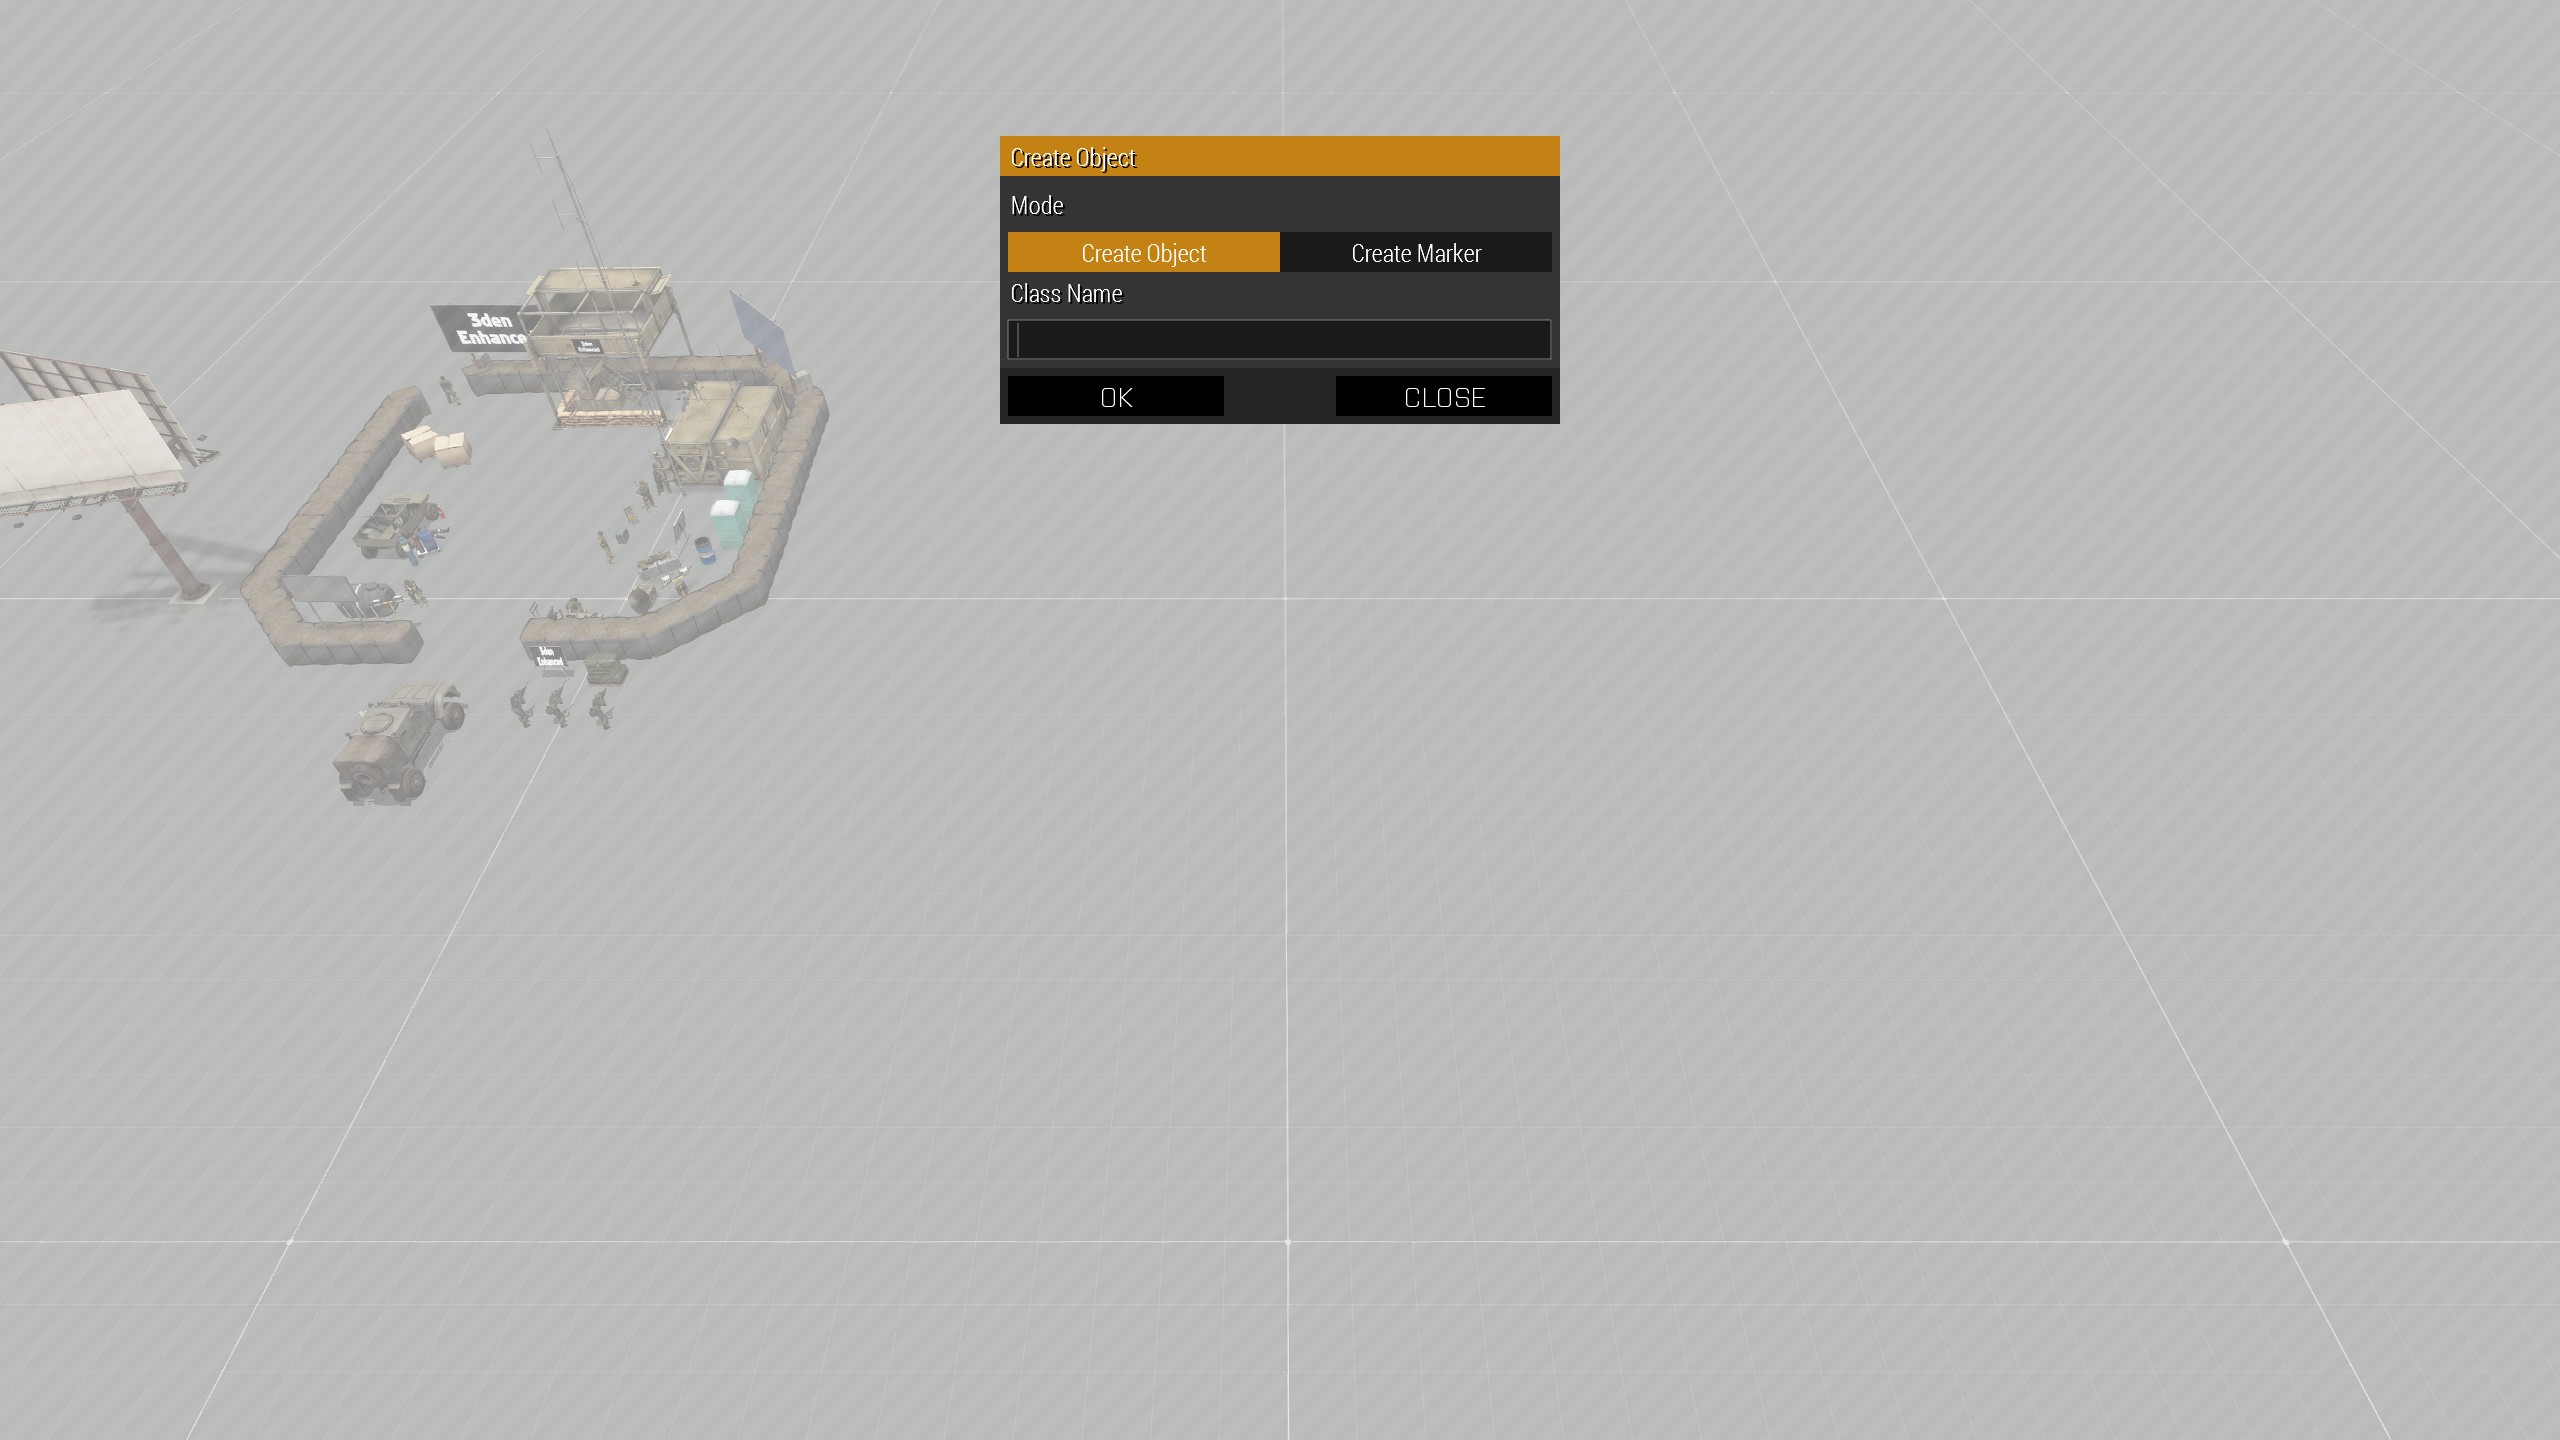
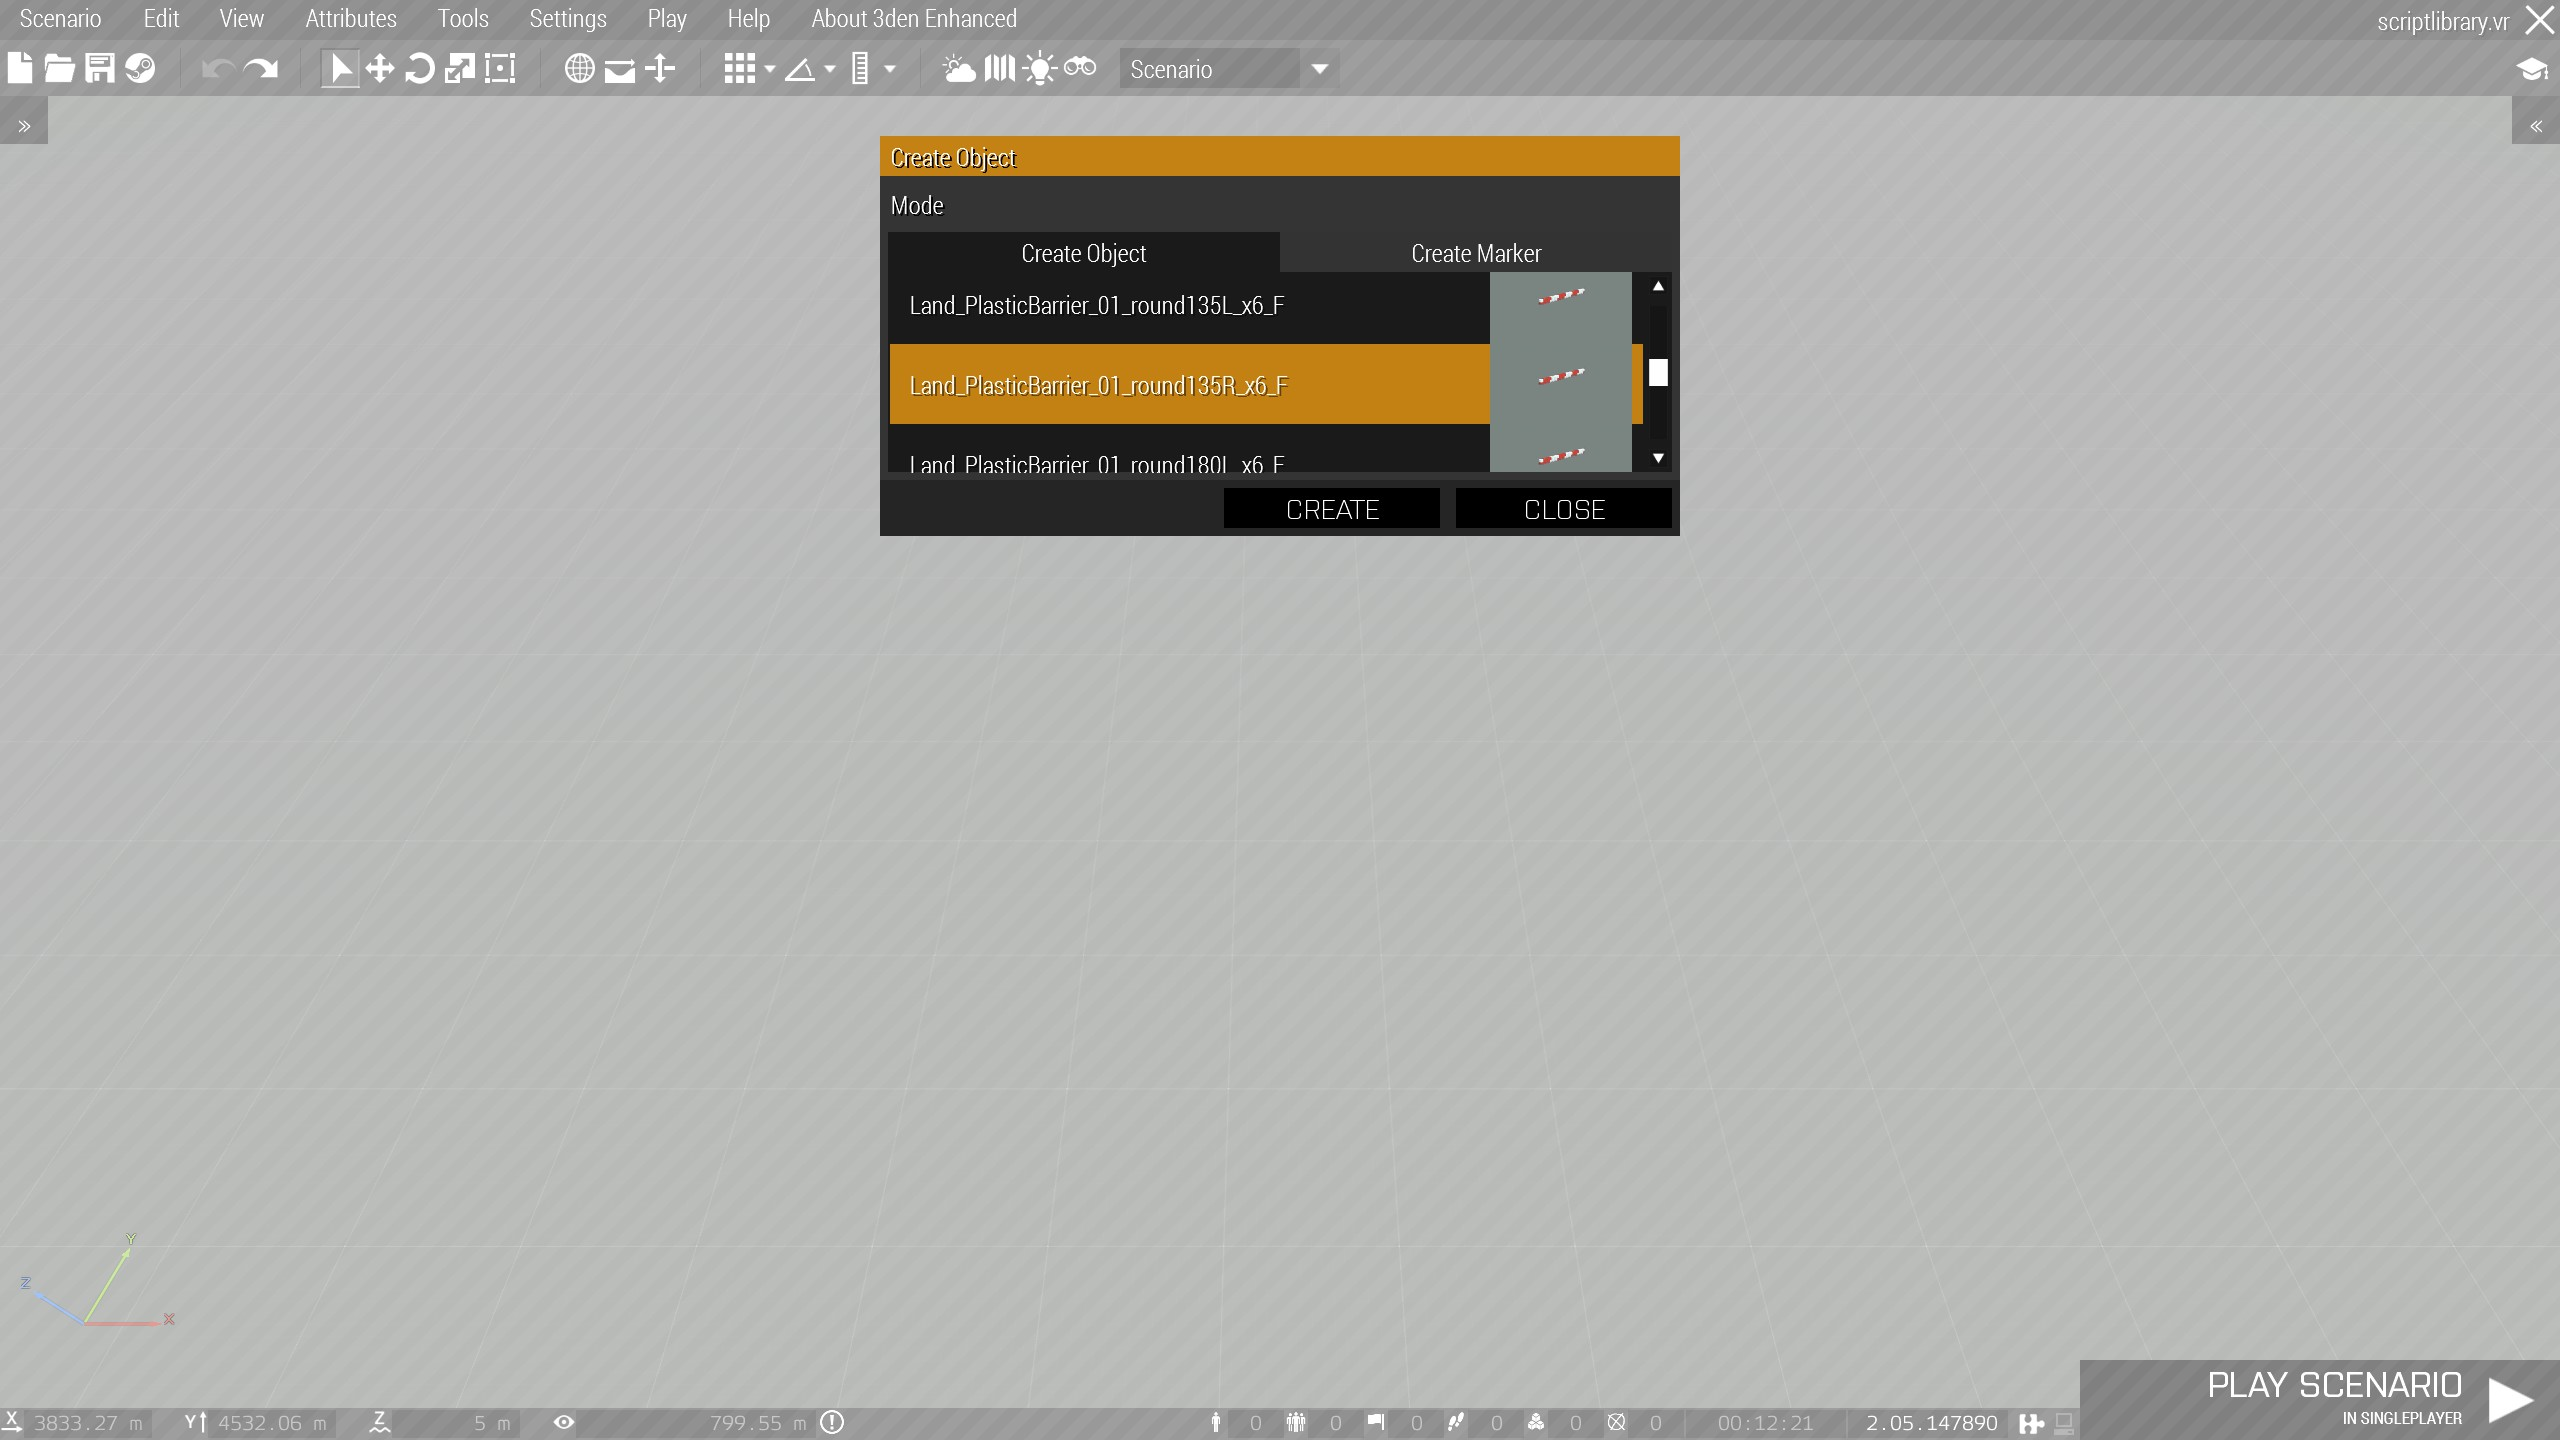
create object UI update

diff --git a/3denEnhanced/GUI/createObject.hpp b/3denEnhanced/GUI/createObject.hpp
@@ -1,5 +1,5 @@
-#define DIALOG_W 70
-#define DIALOG_H 30
+#define DIALOG_W 100
+#define DIALOG_H 44
 
 class ENH_CreateObject
 {
@@ -18,7 +18,7 @@ class ENH_CreateObject
     class BackgroundButton: ctrlStaticFooter
     {
       x = CENTERED_X(DIALOG_W);
-      y = DIALOG_TOP + 29 * GRID_H;
+      y = DIALOG_TOP + 43 * GRID_H;
       w = DIALOG_W * GRID_W;
       h = CTRL_DEFAULT_H + 2 * GRID_H;
     };
@@ -48,6 +48,8 @@ class ENH_CreateObject
       y = DIALOG_TOP + 12 * GRID_H;
       w = DIALOG_W * GRID_W - 2 * GRID_W;
       h = CTRL_DEFAULT_H;
+      colorSelectedBg[] = {COLOR_TAB_RGBA};
+      colorBackground[] = {COLOR_BACKGROUND_RGBA};
       columns = 2;
       rows = 1;
       strings[] =
@@ -55,37 +57,32 @@ class ENH_CreateObject
         "$STR_3DEN_HISTORY_CREATEOBJECT_DISPLAYNAME",
         "$STR_3DEN_HISTORY_CREATEMARKER_DISPLAYNAME"
       };
+      onToolBoxSelChanged = "_this call ENH_fnc_createObject_changeFilter";
     };
-    class Class: ctrlStatic
+    class ObjectList: ctrlListBox
     {
-      text = "$STR_ENH_CREATEOBJECT_CLASSNAME";
-      x = CENTERED_X(DIALOG_W);
+      idc = IDC_CREATEOBJECT_LIST;
+      x = CENTERED_X(DIALOG_W) + GRID_W;
       y = DIALOG_TOP + 17 * GRID_H;
-      w = DIALOG_W * GRID_W - 4 * GRID_W;
-      h = CTRL_DEFAULT_H;
-    };
-    class ClassValue: ctrlEdit
-    {
-      idc = IDC_CREATEOBJECT_CLASS;
-      text = "";
-      x = CENTERED_X(DIALOG_W) + 1 * GRID_W;
-      y = DIALOG_TOP + 23 * GRID_H;
       w = DIALOG_W * GRID_W - 2 * GRID_W;
-      h = CTRL_DEFAULT_H;
+      h = 5 * CTRL_DEFAULT_H;
+      onLoad = "[_this select 0, 0] call ENH_fnc_createObject_changeFilter"; //Fill list
+      rowHeight = 2 * CTRL_DEFAULT_H;
     };
     class OK: ctrlButtonOK
     {
       idc = IDC_CREATEOBJECT_CLOSE;
-      x = CENTERED_X(DIALOG_W) + 1 * GRID_W;
-      y = DIALOG_TOP + 30 * GRID_H;
+      text = "$STR_SINGLE_CREATE";
+      x = CENTERED_X(DIALOG_W) + DIALOG_W * GRID_W - 57 * GRID_W;
+      y = DIALOG_TOP + 44 * GRID_H;
       w = 27 * GRID_W;
       h = CTRL_DEFAULT_H;
       onButtonClick = "_this call ENH_fnc_createObject_create";
     };
     class Cancel: ctrlButtonClose
     {
-      x = CENTERED_X(DIALOG_W) + 42 * GRID_W;
-      y = DIALOG_TOP + 30 * GRID_H;
+      x = CENTERED_X(DIALOG_W) + DIALOG_W * GRID_W - 28 * GRID_W;
+      y = DIALOG_TOP + 44 * GRID_H;
       w = 27 * GRID_W;
       h = CTRL_DEFAULT_H;
     };

diff --git a/3denEnhanced/cfgFunctions.hpp b/3denEnhanced/cfgFunctions.hpp
@@ -34,6 +34,7 @@ class CfgFunctions
     {
       file = "3denEnhanced\functions\GUI\createObject";
       class createObject_create;
+      class createObject_changeFilter;
     };
     class TextureFinder
     {

diff --git a/3denEnhanced/ENH_defineCommon.hpp b/3denEnhanced/ENH_defineCommon.hpp
@@ -270,5 +270,5 @@
 
 #define IDD_CREATEOBJECT -1
 #define IDC_CREATEOBJECT_MODE 10
-#define IDC_CREATEOBJECT_CLASS 20
+#define IDC_CREATEOBJECT_LIST 20
 #define IDC_CREATEOBJECT_CLOSE -1
